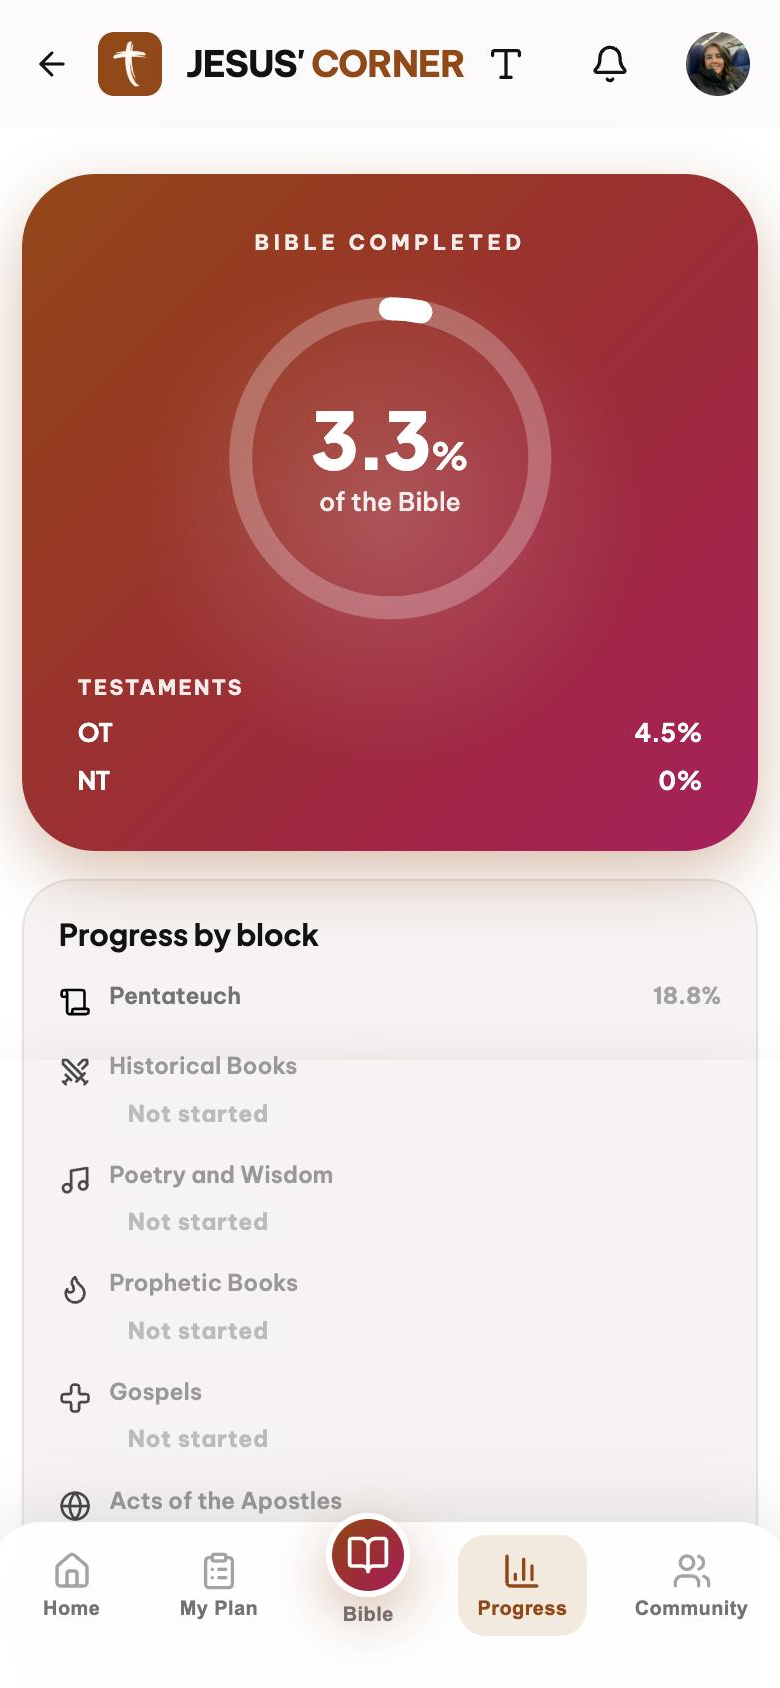
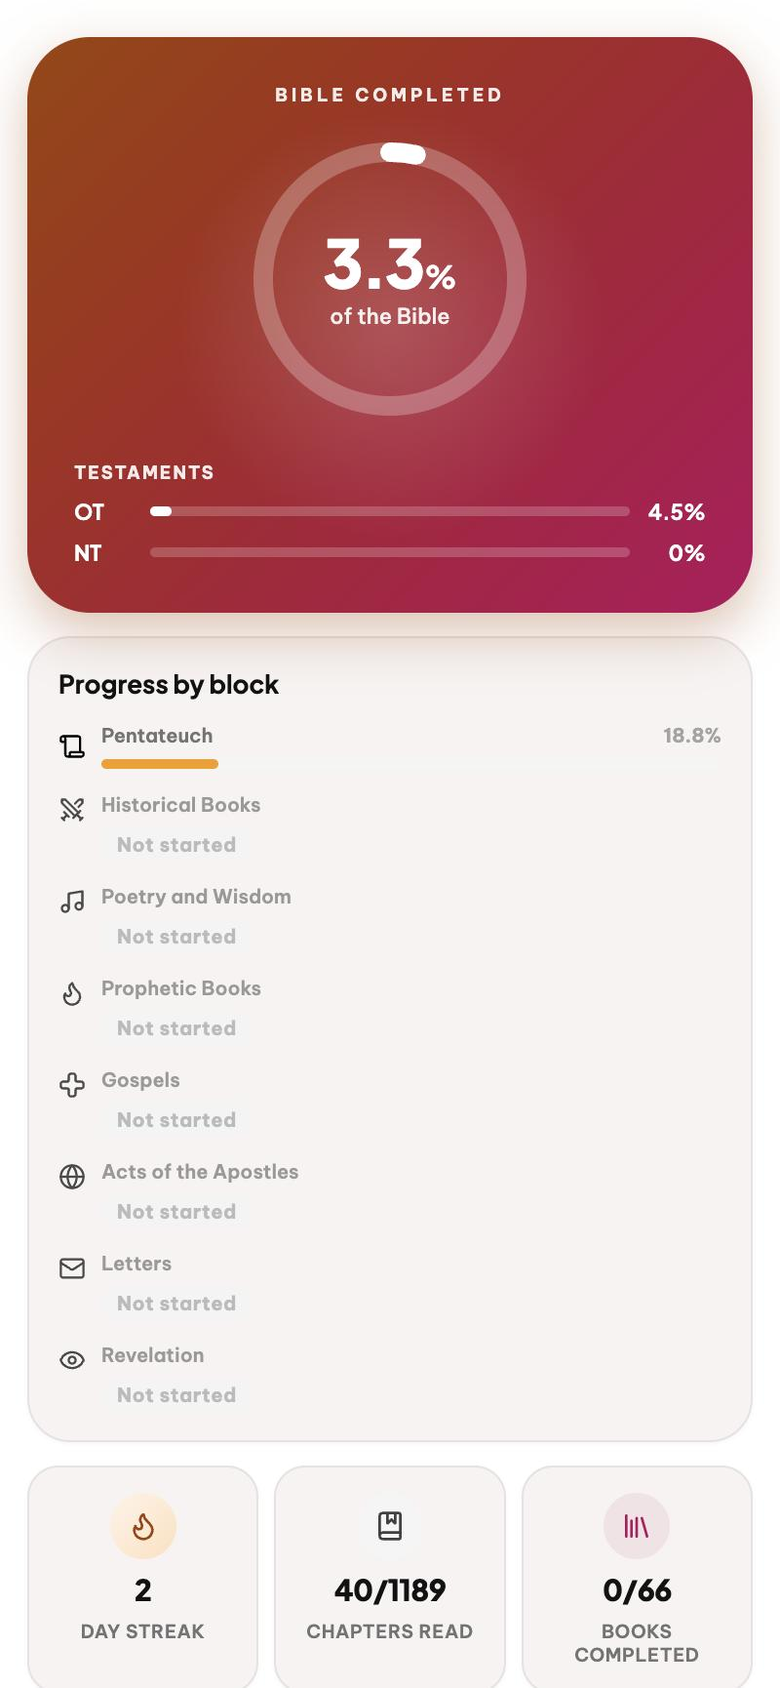
Site: atualiza screenshots do showcase (rotina, leitura, progresso)
Recapturados do app atual (pt + en), 780x1688:
- rotina: agora mostra "Começar" (rotina guiada) e "Modo mãos-livres".
- leitura: agora mostra o player de áudio da Bíblia.
- progresso: recaptura fresca (anel + blocos + stats).

indutivo e notas não mudaram e ficaram como estavam.
Cópia de "leitura" cita o áudio (pt + en).

🤖 Generated with [Claude Code](https://claude.com/claude-code)

diff --git a/src/content.js b/src/content.js
@@ -30,7 +30,7 @@ export const content = {
     showcaseEyebrow: 'Direto do app',
     showcaseFeaturedTag: 'Em destaque',
     showcase: [
-      { image: 'leitura', title: 'Leia a Bíblia inteira, capítulo por capítulo', desc: 'Cada capítulo traz o texto bíblico completo, com contexto histórico, mapa e curiosidades — numa coluna larga e confortável de ler. Termine e marque como lido sem sair da tela; um toque leva direto pro próximo capítulo.' },
+      { image: 'leitura', title: 'Leia a Bíblia inteira, capítulo por capítulo', desc: 'Cada capítulo traz o texto bíblico completo, com contexto histórico, mapa e curiosidades — numa coluna larga e confortável de ler. Ouça em voz alta ali mesmo, termine e marque como lido sem sair da tela; um toque leva direto pro próximo capítulo.' },
       { image: 'progresso', title: 'Veja seu progresso pela Bíblia inteira', desc: 'Um anel mostra quanto você já leu no total, seguido do progresso em cada bloco — Pentateuco, Históricos, Profetas e mais. Some sua sequência de dias, capítulos lidos, níveis e conquistas, tudo numa tela só.' },
       { image: 'rotina', title: 'Sua rotina com Deus, num só lugar', desc: 'Oração, leitura e reflexão organizadas numa linha do tempo que se preenche conforme você avança. Toque em Iniciar e ela se conduz sozinha, um passo abrindo o próximo — ou faça tudo só ouvindo, no modo mãos-livres.' },
       { image: 'indutivo', title: 'Monte seu próprio estudo indutivo', desc: 'Escolha um livro inteiro da Bíblia e siga o método indutivo — observe, interprete e aplique cada capítulo, no seu ritmo, sem hora marcada.' },
@@ -170,7 +170,7 @@ export const content = {
     showcaseEyebrow: 'Straight from the app',
     showcaseFeaturedTag: 'Featured',
     showcase: [
-      { image: 'leitura', title: 'Read the whole Bible, chapter by chapter', desc: 'Every chapter brings the full Bible text, with historical context, a map, and trivia — in a wide, comfortable reading column. Finish and mark it as read without leaving the screen; one tap takes you straight to the next chapter.' },
+      { image: 'leitura', title: 'Read the whole Bible, chapter by chapter', desc: 'Every chapter brings the full Bible text, with historical context, a map, and trivia — in a wide, comfortable reading column. Listen to it out loud right there, finish and mark it as read without leaving the screen; one tap takes you straight to the next chapter.' },
       { image: 'progresso', title: 'See your progress through the whole Bible', desc: 'A ring shows how much you\'ve read overall, followed by progress in each block — Pentateuch, Historical, Prophets, and more. Add your day streak, chapters read, levels, and achievements, all in one screen.' },
       { image: 'rotina', title: 'Your routine with God, in one place', desc: "Prayer, reading, and reflection laid out on a timeline that fills in as you go. Tap Start and it runs on its own, each step opening the next — or do it all just by listening, in hands-free mode." },
       { image: 'indutivo', title: 'Build your own inductive study', desc: 'Pick a whole book of the Bible and follow the inductive method — observe, interpret, and apply each chapter, at your own pace, with no set schedule.' },
